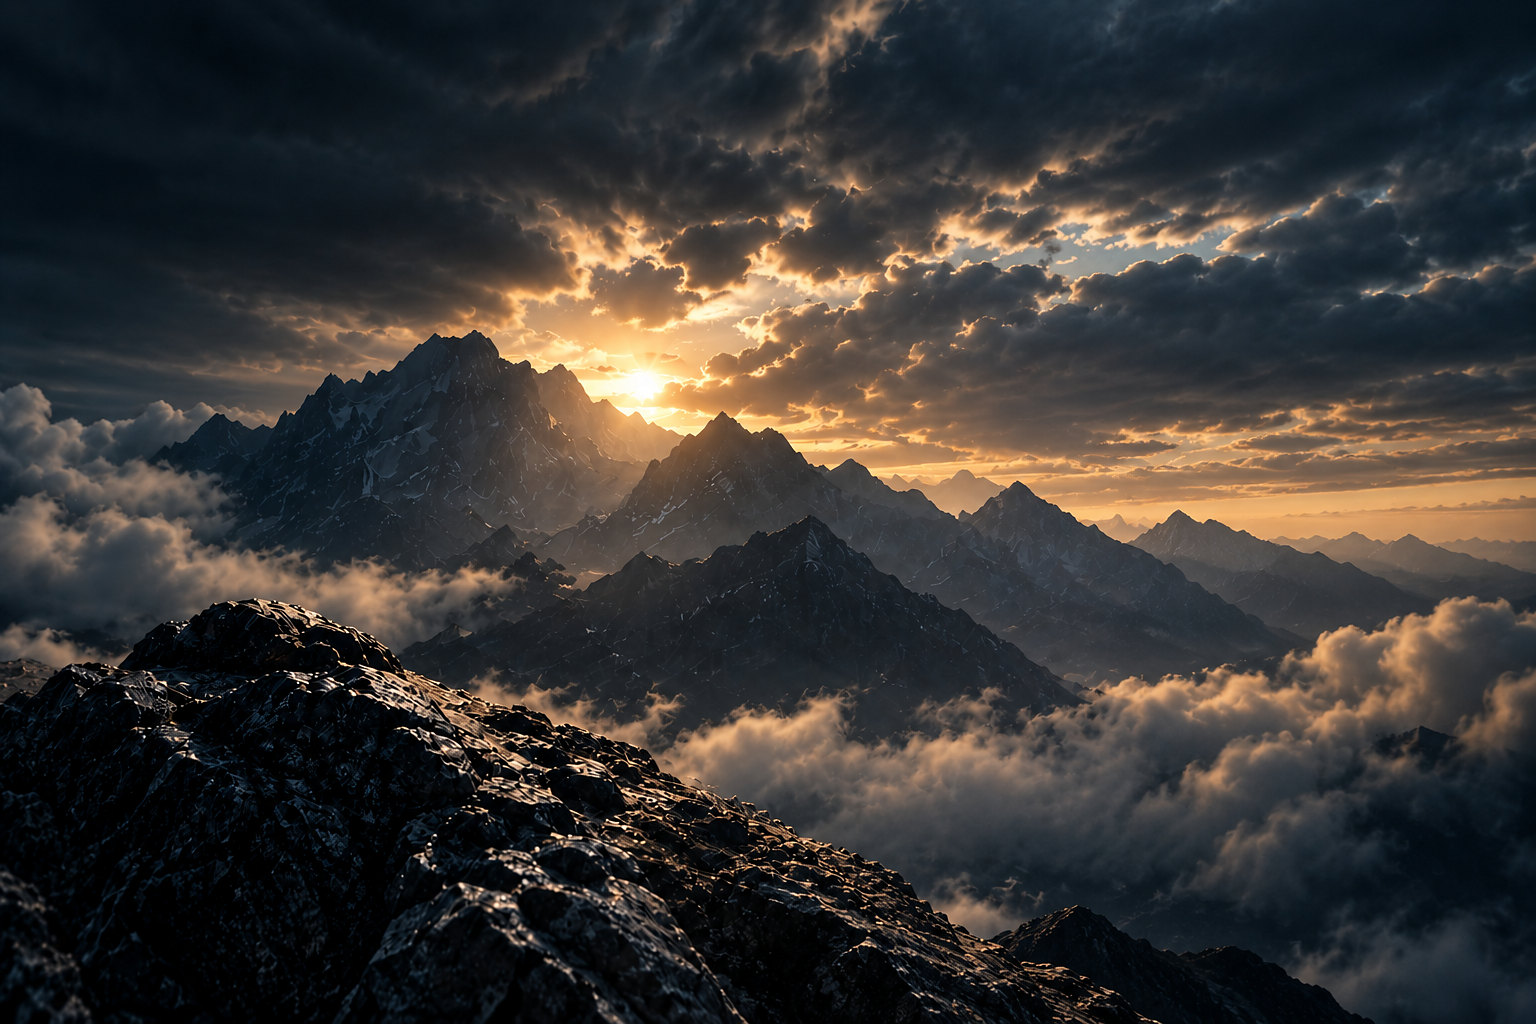
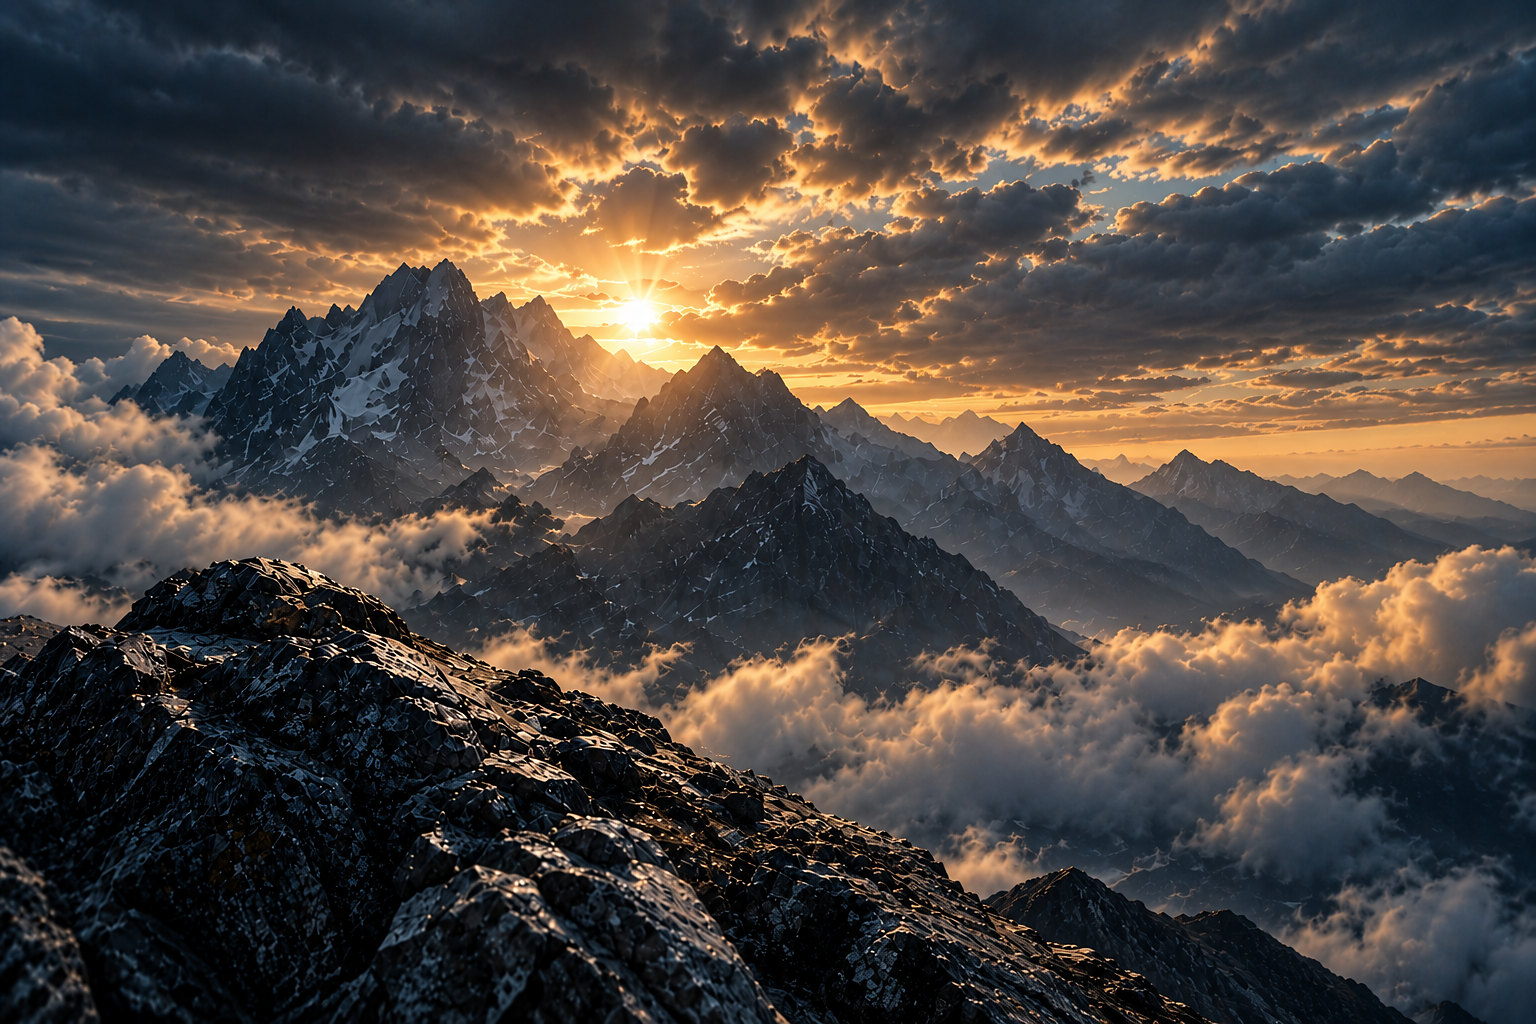
Stop phones downloading the login photograph
Switching to <picture> in the previous commit quietly undid the reason
the panel is hidden below lg. A browser skips a CSS background on a
display:none element, but downloads an <img> inside one regardless — so
every phone was pulling 321KB for a picture it is never shown. Confirmed
in a browser at 390px before and after: it fetched, now it doesn't.

Back to a background, with the format choice done in CSS instead: three
declarations of background-image, each overriding the last where it is
understood. Modern browsers take the standard image-set and get the
WebP, Safari 14-16 takes the -webkit- form and gets the same file,
anything older keeps the plain JPEG.

Also swaps in the newer photograph — same 1536x1024, different frame,
with far more detail in the foreground rock.

Claude-Session: https://claude.ai/code/session_01MWJ8v829Yd1LecJ48XZQvJ

diff --git a/src/pages/auth/LoginPage.tsx b/src/pages/auth/LoginPage.tsx
@@ -69,17 +69,9 @@ export function LoginPage() {
           className="absolute inset-y-0 left-0 w-[128%]"
           style={{ WebkitMaskImage: EDGE_FADE, maskImage: EDGE_FADE }}
         >
-          {/* A real <picture> rather than a CSS background, so the browser can take the WebP
-              and fall back to the JPEG on its own. object-cover reproduces what bg-cover did. */}
-          <picture>
-            <source srcSet="/brand/raptor-login.webp" type="image/webp" />
-            <img
-              src="/brand/raptor-login.jpg"
-              alt=""
-              className="absolute inset-0 h-full w-full bg-[#0b1620] object-cover"
-              style={{ objectPosition: '32% center' }}
-            />
-          </picture>
+          {/* Format selection, sizing and framing all live in .login-photo — see index.css for
+              why this is a background and not an <img>. */}
+          <div className="login-photo absolute inset-0 bg-[#0b1620]" />
           {/* Weighted to the top-left corner, where the words sit. */}
           <div className="absolute inset-0" style={{ background: CORNER_SHADE }} />
           <div className="absolute inset-0 bg-[#040c14]/18" />

diff --git a/src/index.css b/src/index.css
@@ -168,6 +168,25 @@ body {
   background: var(--skin-hero-background);
 }
 
+/*
+ * The sign-in photograph.
+ *
+ * A background rather than an <img> on purpose: the panel is hidden below lg, and a browser
+ * never fetches a background on a display:none element, whereas it will happily download an
+ * <img> inside one. A phone shouldn't pay for a picture it is never shown.
+ *
+ * Three declarations of one property, each overriding the last where it's understood. Anything
+ * modern takes the standard image-set and gets the WebP; Safari 14-16 takes the -webkit- form
+ * and gets the same file; anything older keeps the plain JPEG.
+ */
+.login-photo {
+  background-image: url('/brand/raptor-login.jpg');
+  background-image: -webkit-image-set(url('/brand/raptor-login.webp') 1x);
+  background-image: image-set(url('/brand/raptor-login.webp') type('image/webp'), url('/brand/raptor-login.jpg') type('image/jpeg'));
+  background-size: cover;
+  background-position: 32% center;
+}
+
 .badge {
   display: inline-flex;
   align-items: center;
